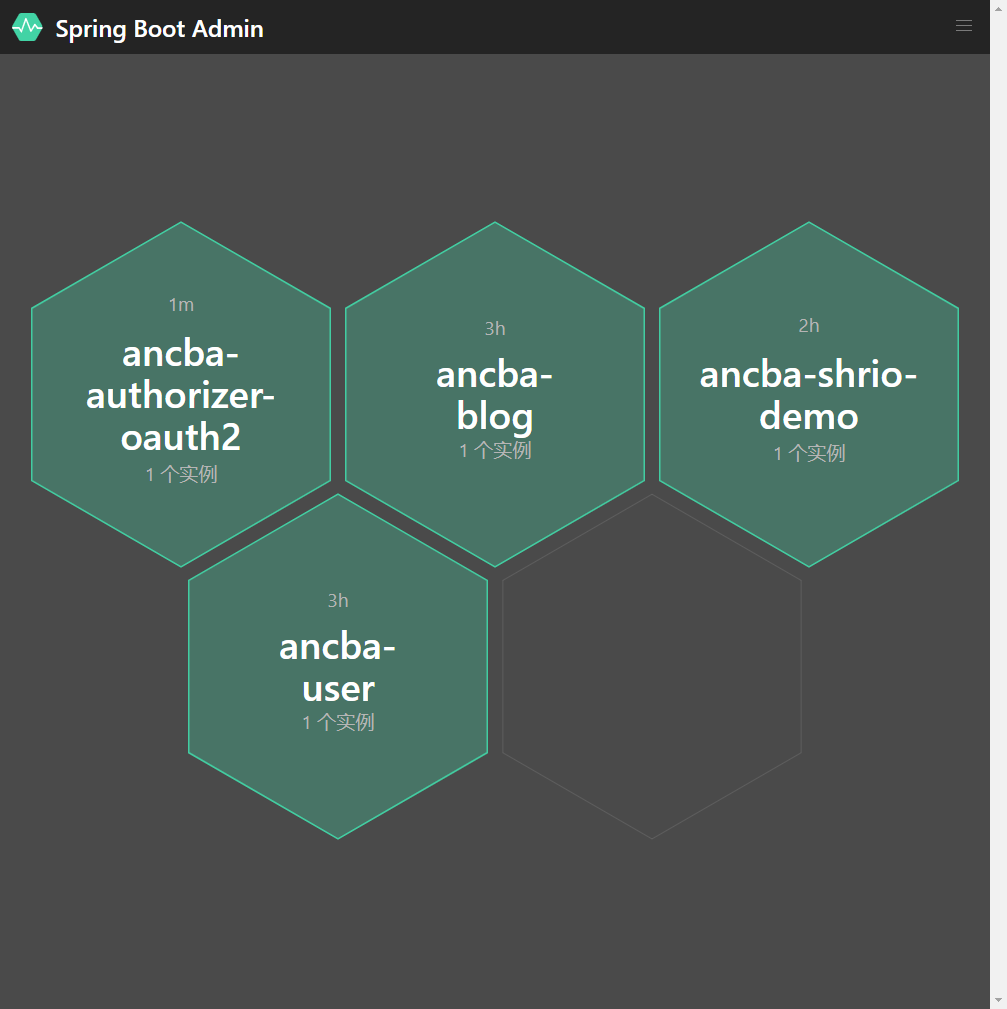
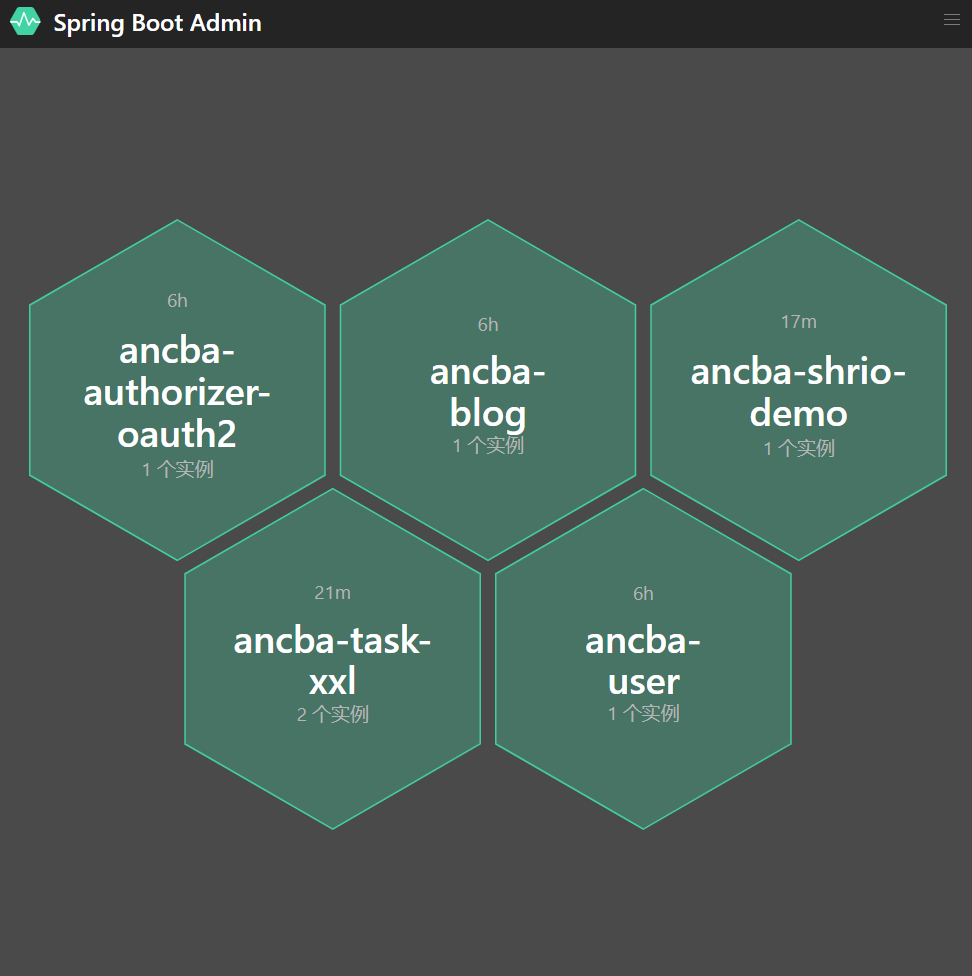
:dolphin:  feat：add task executor md

diff --git a/ancba-task-xxl/README.md b/ancba-task-xxl/README.md
@@ -1,0 +1,21 @@
+### 安装步骤
+
+ps:命令中包含有网桥配置，如果不需要，可以去掉
+
+#### 1、启动admin调度中心
+```
+docker run -d \
+-e PARAMS="--spring.datasource.url=jdbc:mysql://118.25.25.13:3069/xxl_job?useUnicode=true&characterEncoding=UTF-8&autoReconnect=true&serverTimezone=UTC --spring.datasource.username=root --spring.datasource.password=root --spring.datasource.driver-class-name=com.mysql.cj.jdbc.Driver" \
+-p 8080:8080 \
+-v /data/xxl-admin/logs:/data/applogs \
+--name my-xxl-job-admin-2.2.0  \
+-d xuxueli/xxl-job-admin:2.2.0
+```
+
+#### 2、启动executor执行器
+```
+docker run --name=ancba-task-xxl-container \
+-d -v /data/ancba/ancba-task-xxl/application-dev.yml:/opt/application-dev.yml \
+--add-host=host.docker.internal:host-gateway --network dev-ops --network-alias devops-ancba-task-xxl \
+-it -p 8186:8186 -p 9876:9876 laozhangisphi/ancba-task-xxl:0.0.1-SNAPSHOT
+```
